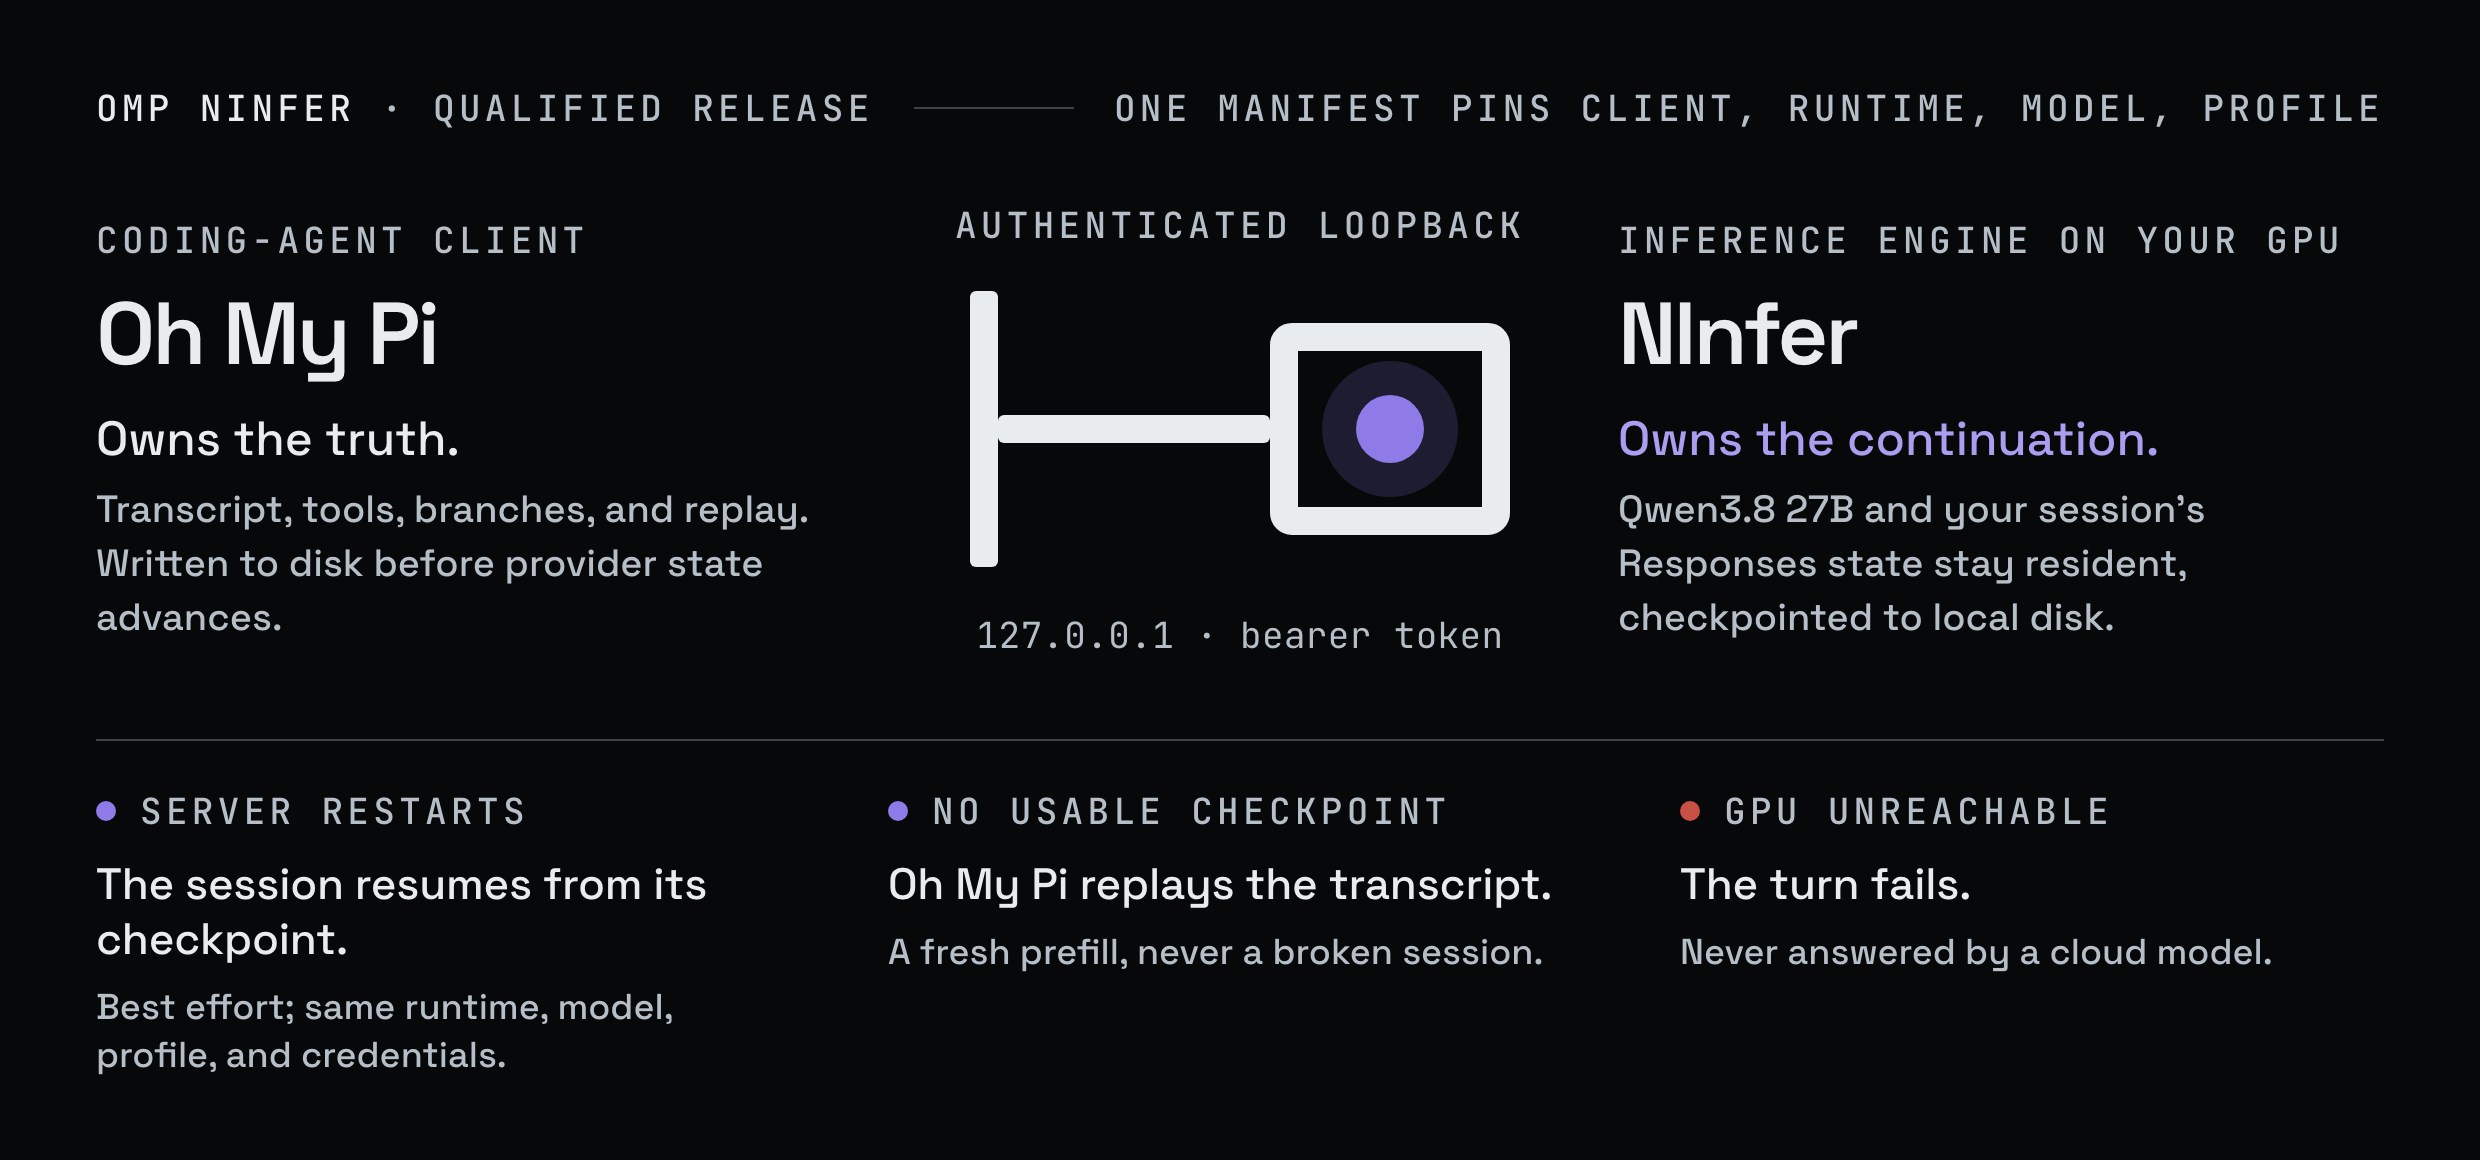
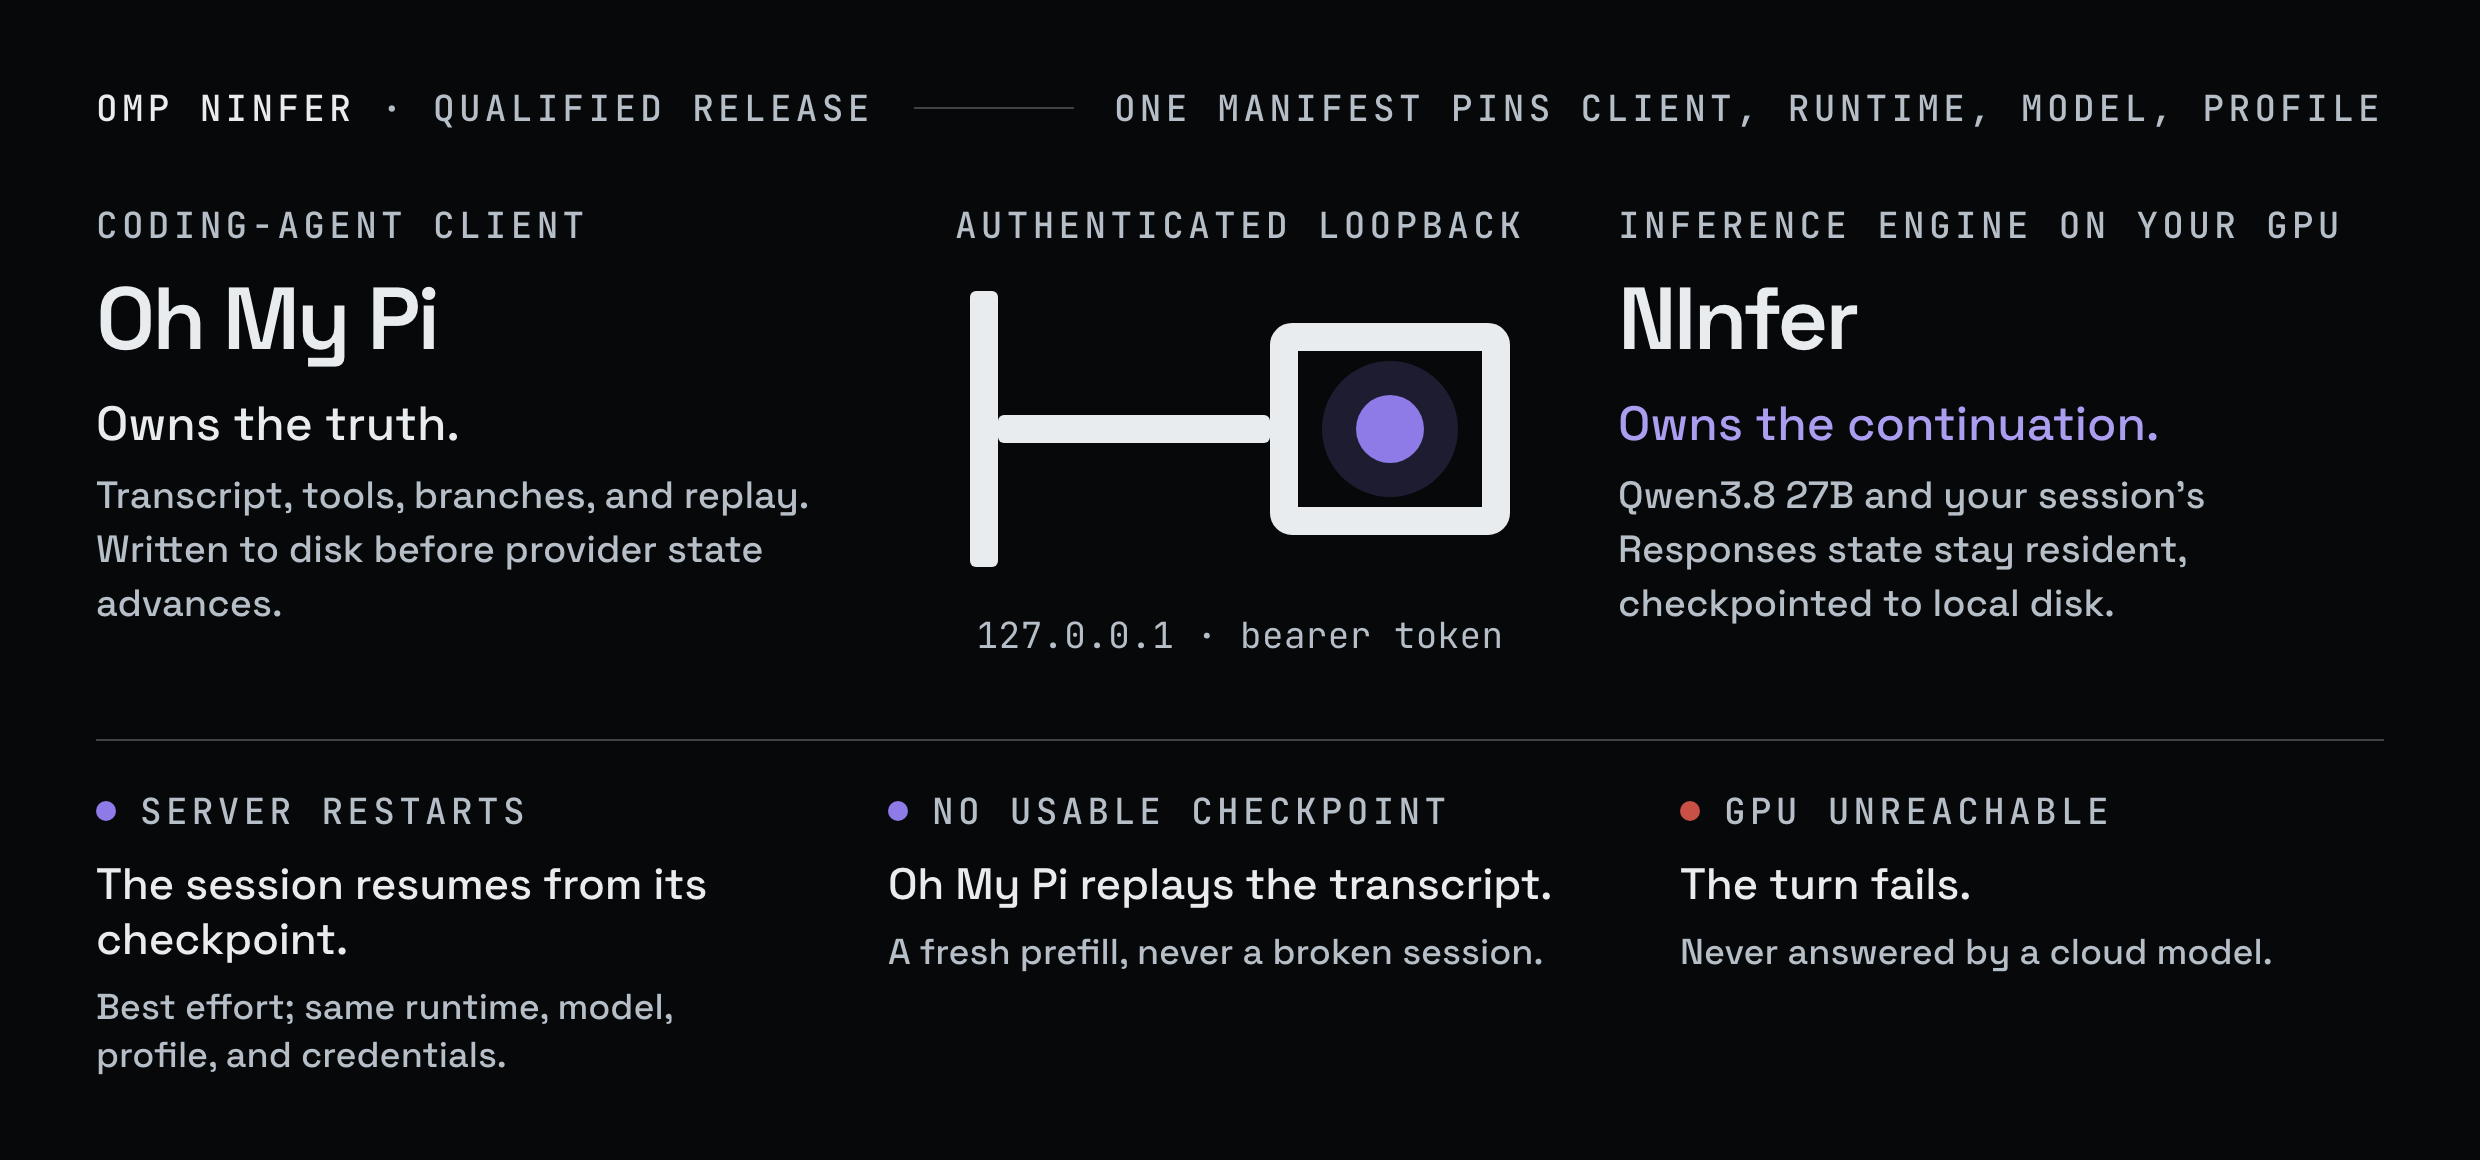
docs(readme): align architecture labels and reword the retrieval header

diff --git a/assets/architecture.html b/assets/architecture.html
@@ -8,7 +8,7 @@
   .arch { width: 1240px; height: 580px; padding: 44px 48px 40px; display: grid; grid-template-rows: 20px 1fr auto; row-gap: 32px; }
   .release { display: flex; align-items: center; gap: 20px; }
   .release .rule { flex: 1; height: 1px; background: var(--line-strong); }
-  .nodes { display: grid; grid-template-columns: 1fr 290px 1fr; column-gap: 44px; align-items: center; }
+  .nodes { display: grid; grid-template-columns: 1fr 290px 1fr; column-gap: 44px; align-items: start; align-self: center; }
   .node h2 { margin: 16px 0 0; font-size: 44px; line-height: 1; letter-spacing: -.035em; font-weight: 600; }
   .node .owns { margin: 16px 0 0; font-size: 24px; line-height: 1.2; font-weight: 500; }
   .node.state .owns { color: var(--local-text); }

diff --git a/README.md b/README.md
@@ -76,7 +76,7 @@ desktop GUI ([LM Studio](https://lmstudio.ai)), the widest hardware reach or App
 All three lanes share a 131,072-token context, DFlash2 speculative decoding with draft window 7,
 JSON-schema output, and the same 20.4 GB Qwen3.8 27B artifact (`81f924d4`).
 
-| Lane | Runs as | Serves | Decode | Exact&nbsp;130,048-token retrieval |
+| Lane | Runs as | Serves | Decode | Exact&nbsp;retrieval, 130,048&nbsp;tokens |
 | --- | --- | --- | --- | --- |
 | **RTX&nbsp;5090** | Docker Desktop/WSL2 container on Windows 11; clients: Windows (local), macOS over a manual SSH tunnel (preview), Linux under WSL2 | Two requests in flight; vision, tools, and preserved thinking | [181.92&nbsp;tok/s](releases/v0.17.0/qualification/rtx5090.json) | [56.63&nbsp;s](releases/v0.17.0/qualification/rtx5090.json) |
 | **RTX&nbsp;4090** | Native Windows 11 package; Windows client (local) | One request at a time; text and tools | [254.59&nbsp;tok/s](releases/v0.17.0/qualification/rtx4090.json) | [83.54&nbsp;s](releases/v0.17.0/qualification/rtx4090.json) |
